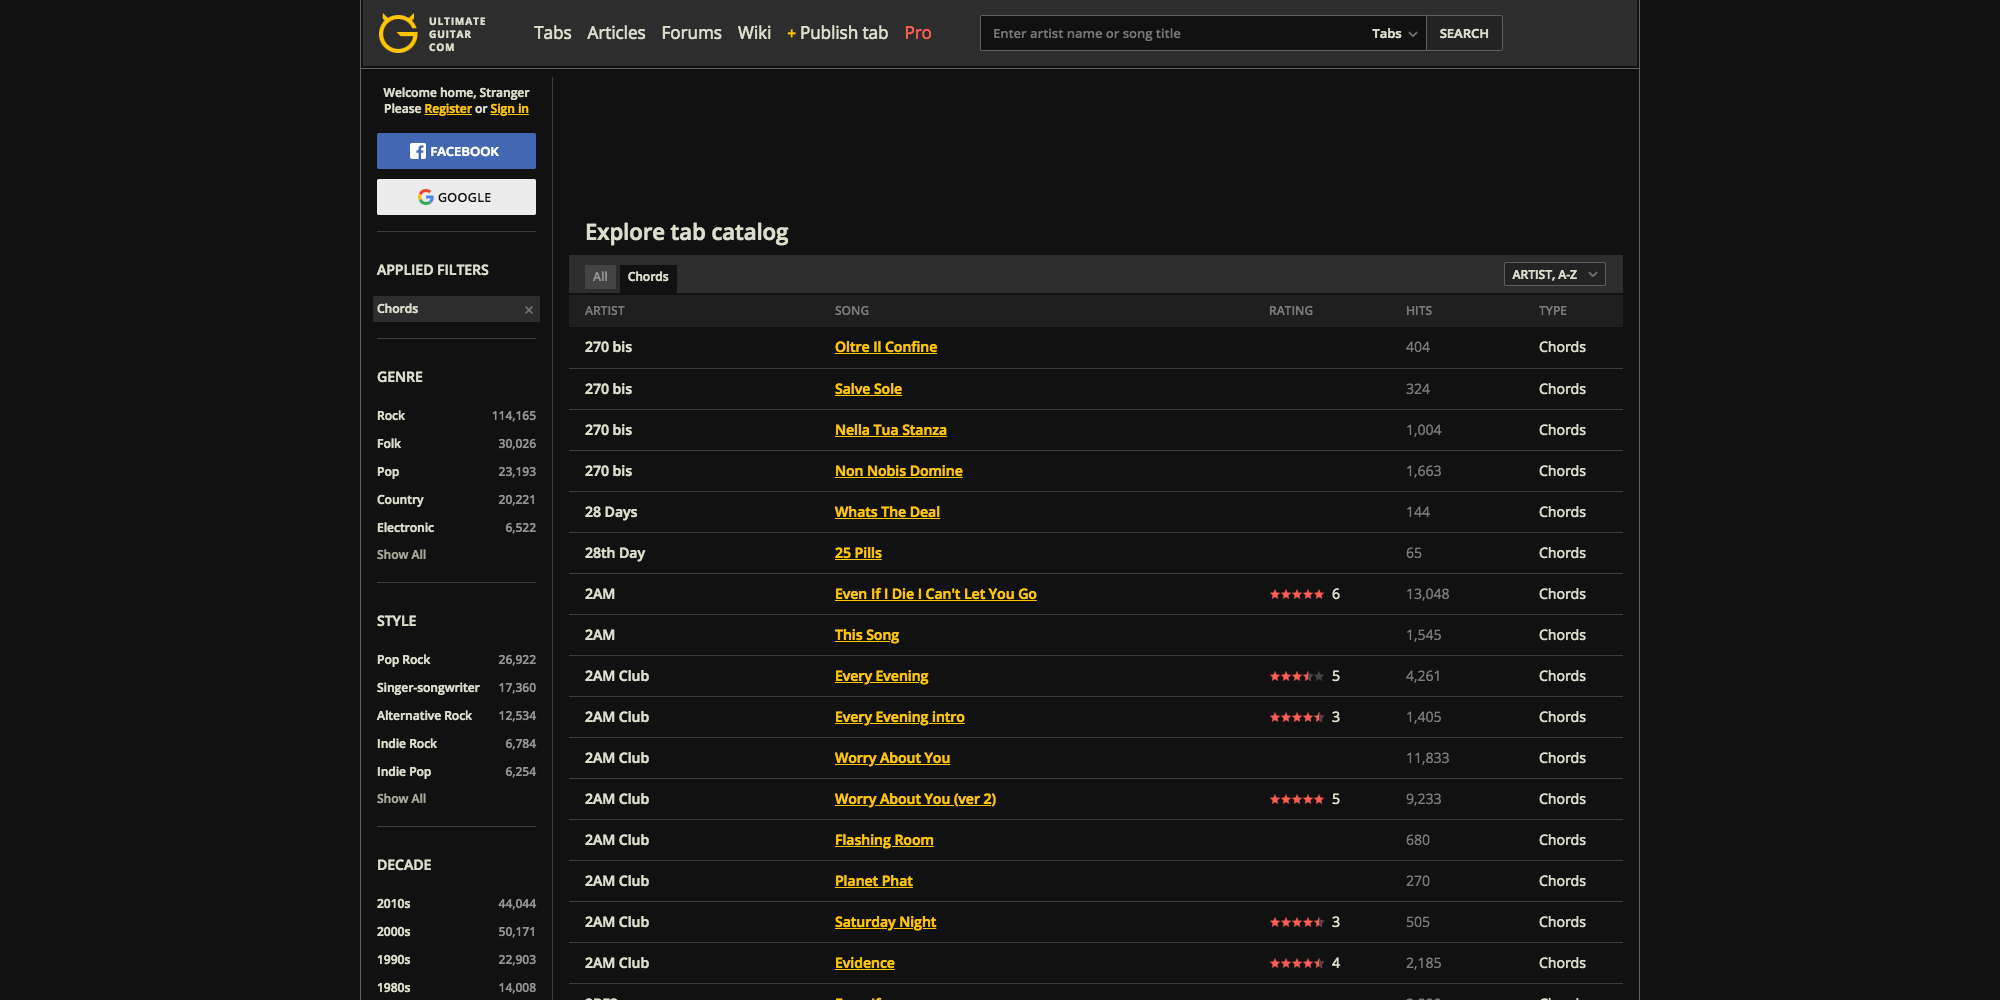
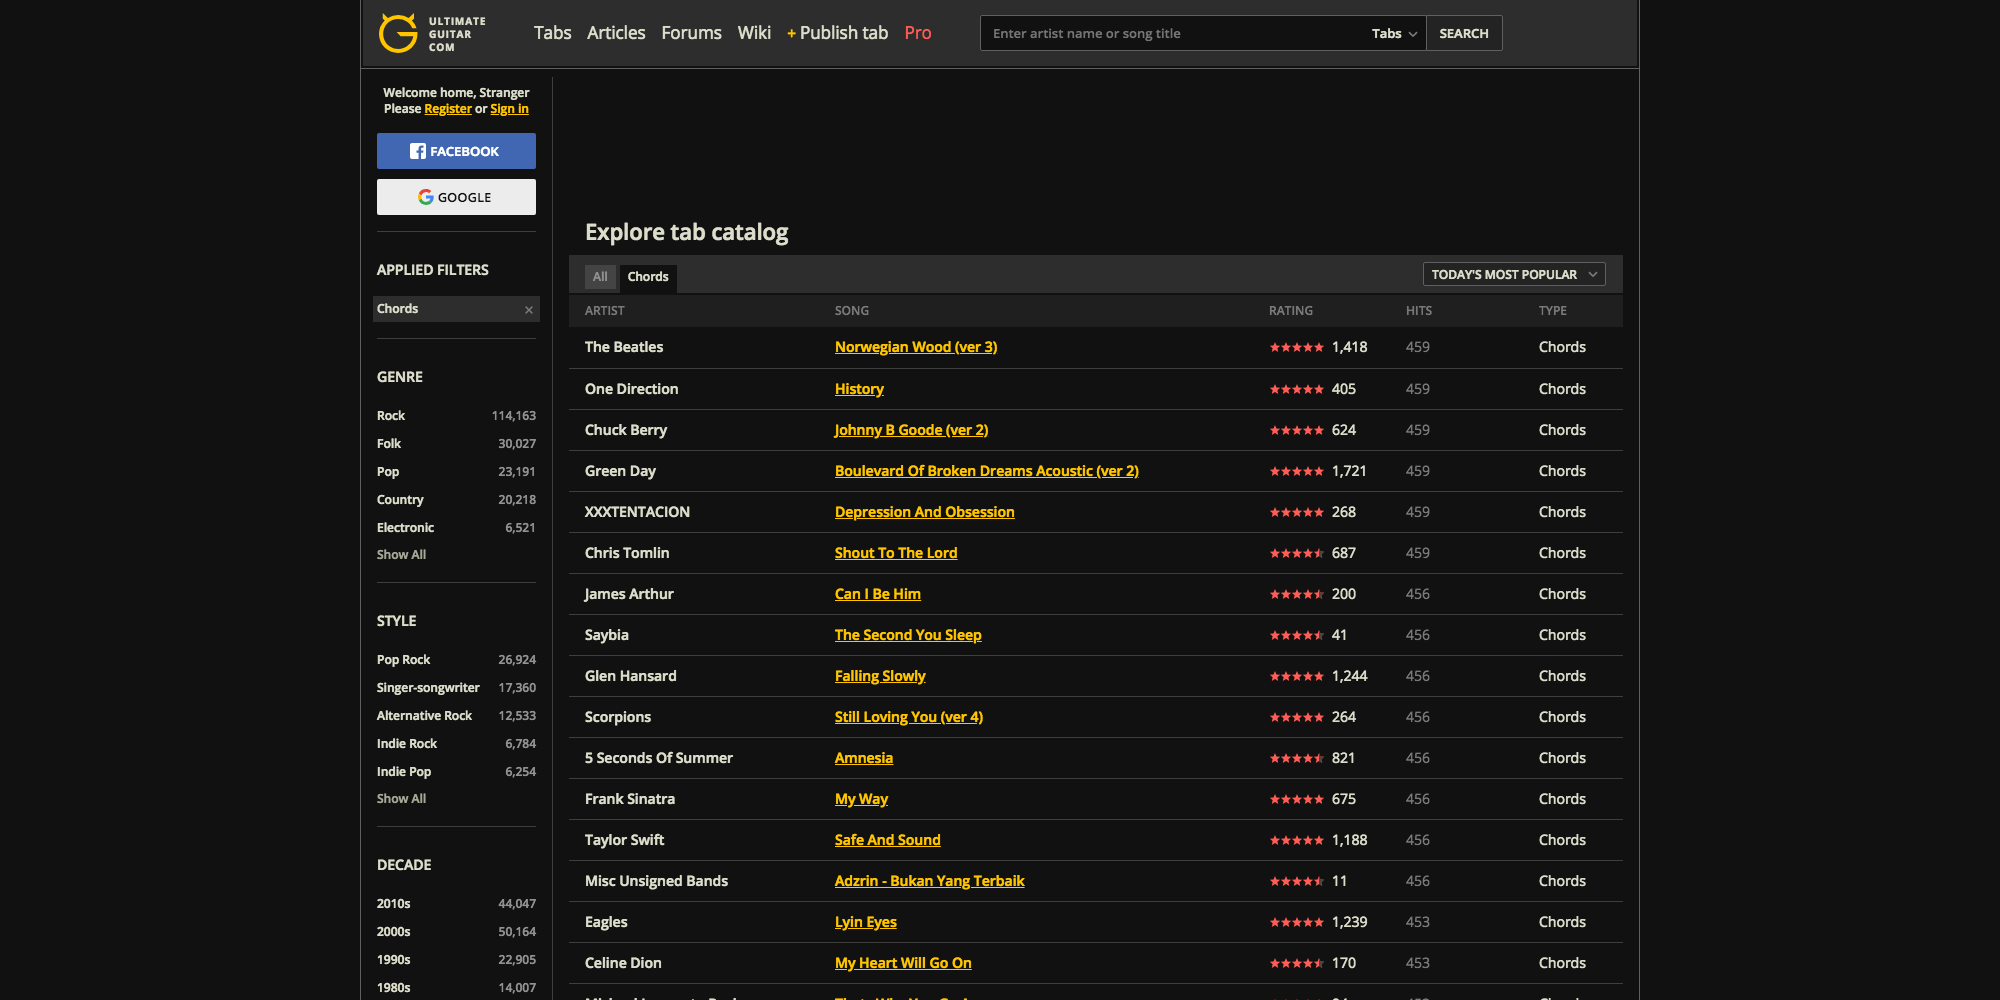
it all works now yay

diff --git a/getLinks/crawlChords.js b/getLinks/crawlChords.js
@@ -5,33 +5,46 @@ const Lyrics = "body > div.js-page.js-global-wrapper > div > div._16KsA > main >
 
 
 async function getLinks() {
-  const browser = await puppeteer.launch({headless: false});
+  const browser = await puppeteer.launch();
   const page = await browser.newPage();
   var total_links = 0;
   var list;
+  var chordsPage = 'https://www.ultimate-guitar.com/explore?page=1&type[]=Chords'
+  var pageNumber = 1;
+  console.log(pageNumber.toString());
+  var testChordPage = chordsPage.replace(/page=.*&type/, 'page='+pageNumber.toString()+'&type');
+  console.log(testChordPage);
   
-  await page.goto('https://www.ultimate-guitar.com/explore?order=artistname_asc&type[]=Chords');
+  await page.goto(chordsPage);
   await page.setViewport({width: 1000, height: 500})
   await page.screenshot({ path: 'screenshots/ultimateguitar.png' });
 
-  while(await page.$(NEXT_PAGE) != null){
-    //hi matt, this #Rectangle here is the css selector for the X button on the add
-    if(await page.$("#Rectangle") != null){
-      page.click("#Rectangle");
-    // await page.waitFor(() => !document.querySelector("#Rectangle"));
+  while(true){
+    try{
+      //hi matt, this #Rectangle here is the css selector for the X button on the add
+      if(await page.$("#Rectangle") != null){
+        page.click("#Rectangle");
+      // await page.waitFor(() => !document.querySelector("#Rectangle"));
+      }
+      await page.setViewport({width: 2000, height: 1000})
+
+      list = await page.evaluateHandle(() => {
+        return Array.from(document.getElementsByClassName('link-primary _1kcZ5')).map(a => a.href);
+      });
+      console.log(await list.jsonValue());
+      page.click(NEXT_PAGE);
+      await page.waitForNavigation();
+      await page.screenshot({ path: 'screenshots/nextpage.png' });
     }
-    await page.setViewport({width: 2000, height: 1000})
-
-    console.log("out of the if statement, ad should be gone");
-
-    list = await page.evaluateHandle(() => {
-      return Array.from(document.getElementsByClassName('link-primary _1kcZ5')).map(a => a.href);
-    });
-    console.log(await list.jsonValue());
-    page.click(NEXT_PAGE);
-    await page.waitForNavigation();
-    await page.screenshot({ path: 'screenshots/nextpage.png' });
-
+    catch{
+      console.log("something didn't work at", chordsPage);
+      
+    }
+    pageNumber++;
+    pageNumber.toString();
+    console.log(pageNumber.toString());
+    chordsPage = chordsPage.replace(/page=.*&type/, 'page='+pageNumber.toString()+'&type');
+    await page.goto(chordsPage);
   }
   browser.close();
 
